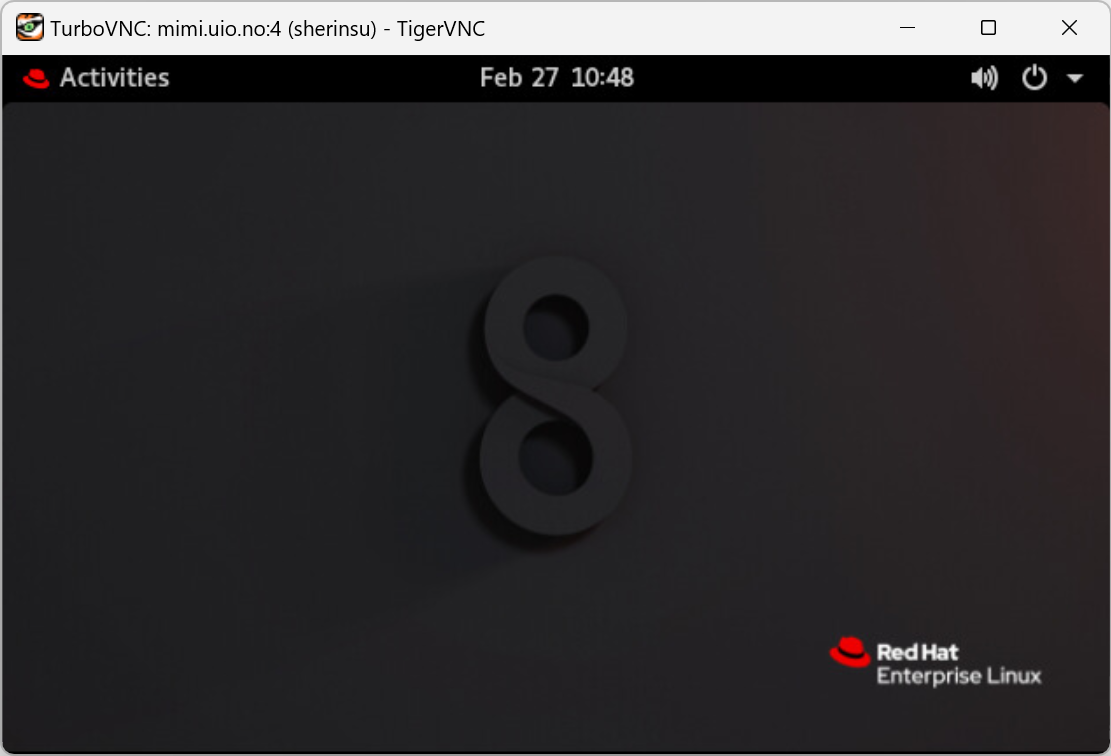
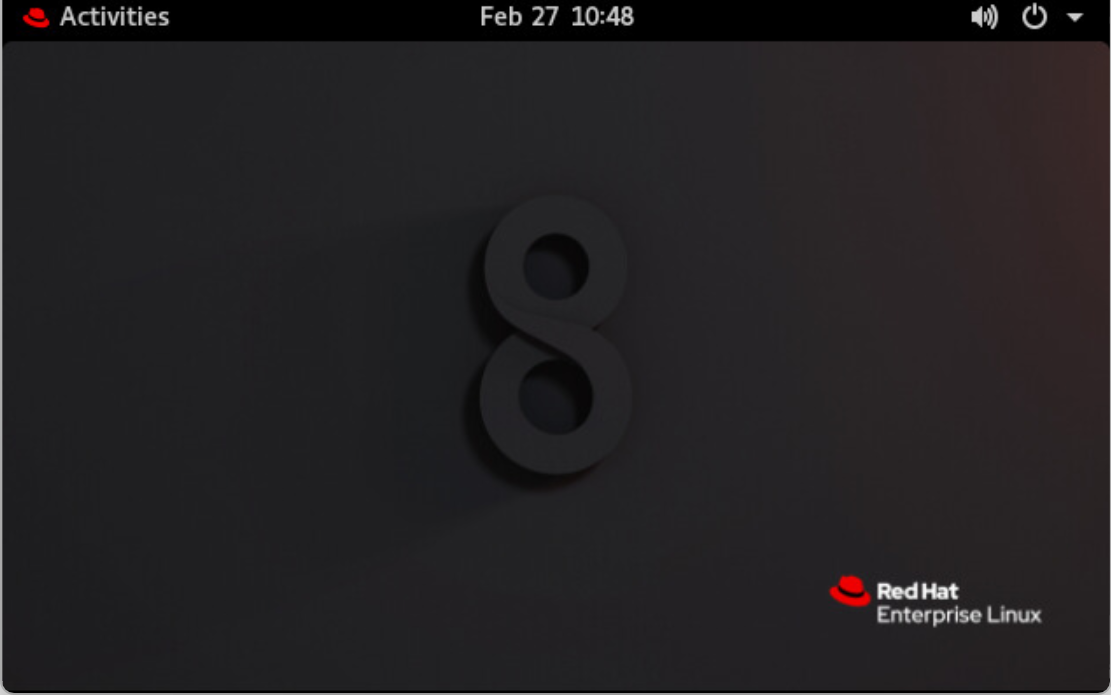
requirement update

diff --git a/README.md b/README.md
@@ -7,7 +7,7 @@ Global climate datasets, whether from satellite observations or from models, are
 ## I. Steps for Running GeoVis Under MIMI
 MIMI (mimi.uio.no) is a shared computing resource at the Department of GeoSciences (UiO). It is an RHEL8 machine with 128 cores and a Quadro RTX 6000. 
 ### a. Software Needed
-- TigerVNC Client - https://github.com/TigerVNC/tigervnc/releases
+- TurboVNC Client - https://sourceforge.net/projects/turbovnc/files/3.1/
 ### b. Setting up a VNCServer and establishing connection. 
 1. Login to mimi using your credentials.
 2. Before starting TurboVNC Server, load the module ``$ module load TurboVNC/3.0.1-GCCcore-11.3.0``
@@ -35,9 +35,9 @@ ssh -L 6000:localhost:5904 username@mimi.uio.no
 7. Now, for connecting to remote server running in mimi, you can launch  TigerVNC Viewer and enter the server name as `localhost:6000` and press Connect.
 
 <p align="center">
-  <img src="screens/logintigerVNC.png" alt="login" style="width:400px"/>
+  <img src="screens/loginturboVNC.png" alt="login" style="width:400px"/>
 </p>
-8. Once you are successfully connected, you should see a remote desktop as shown below:
+8. Once the connection is successfully established, you will be presented with a remote desktop interface through which you can log into the Linux system.
 <p align="center" style="display: block">
 <img src="screens/login.png" alt="Alt text" style="width:500px"/>  <img src="screens/loggedin.png" alt="Alt text" style="width:500px"/>
 </p>
@@ -51,7 +51,9 @@ $ export __GLX_VENDOR_LIBRARY_NAME=nvidia
 ```
 Here, the first variable will tell the system to offload the rendering to the discrete card, the second variable will force applications to use the NVIDIA's GLX stuff.
 
-2. Clone the repository - `git clone https://github.com/sherinsugathan/GeoVis.git`
+2. Choose a suitable folder and clone the repository - `git clone https://github.com/sherinsugathan/GeoVis.git`
+3. `cd` into the `GeoVis` folder.
+4. 
 3. Install dependencies.
    `$ pip install -r requirements.txt`
 4. Run `python mainWindow.py`.
